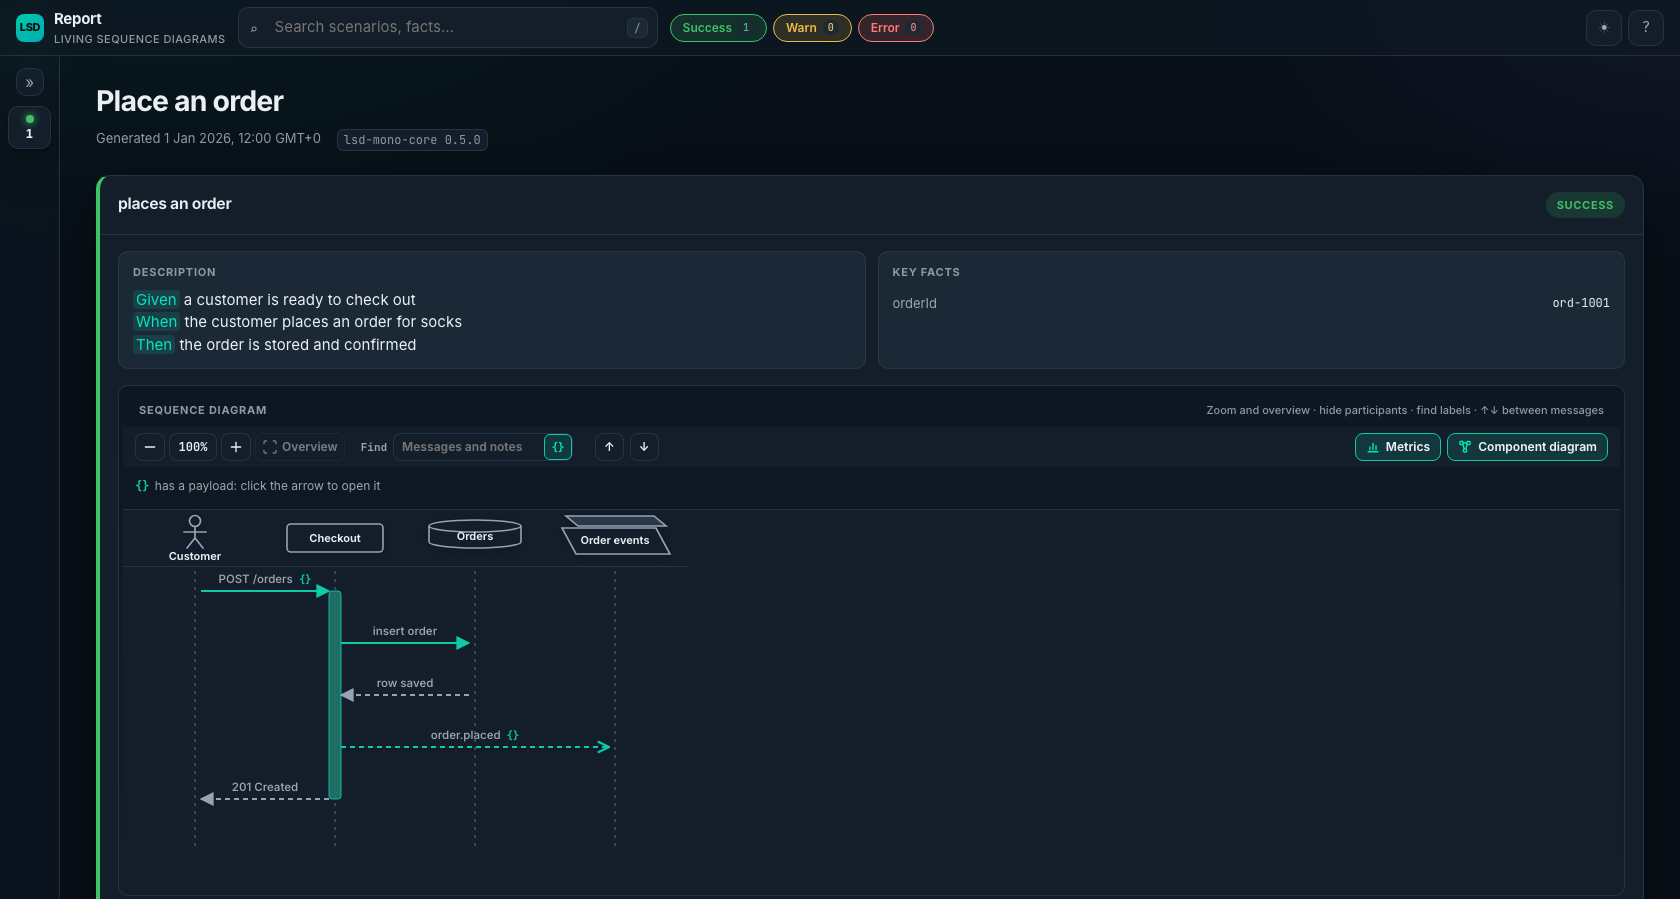
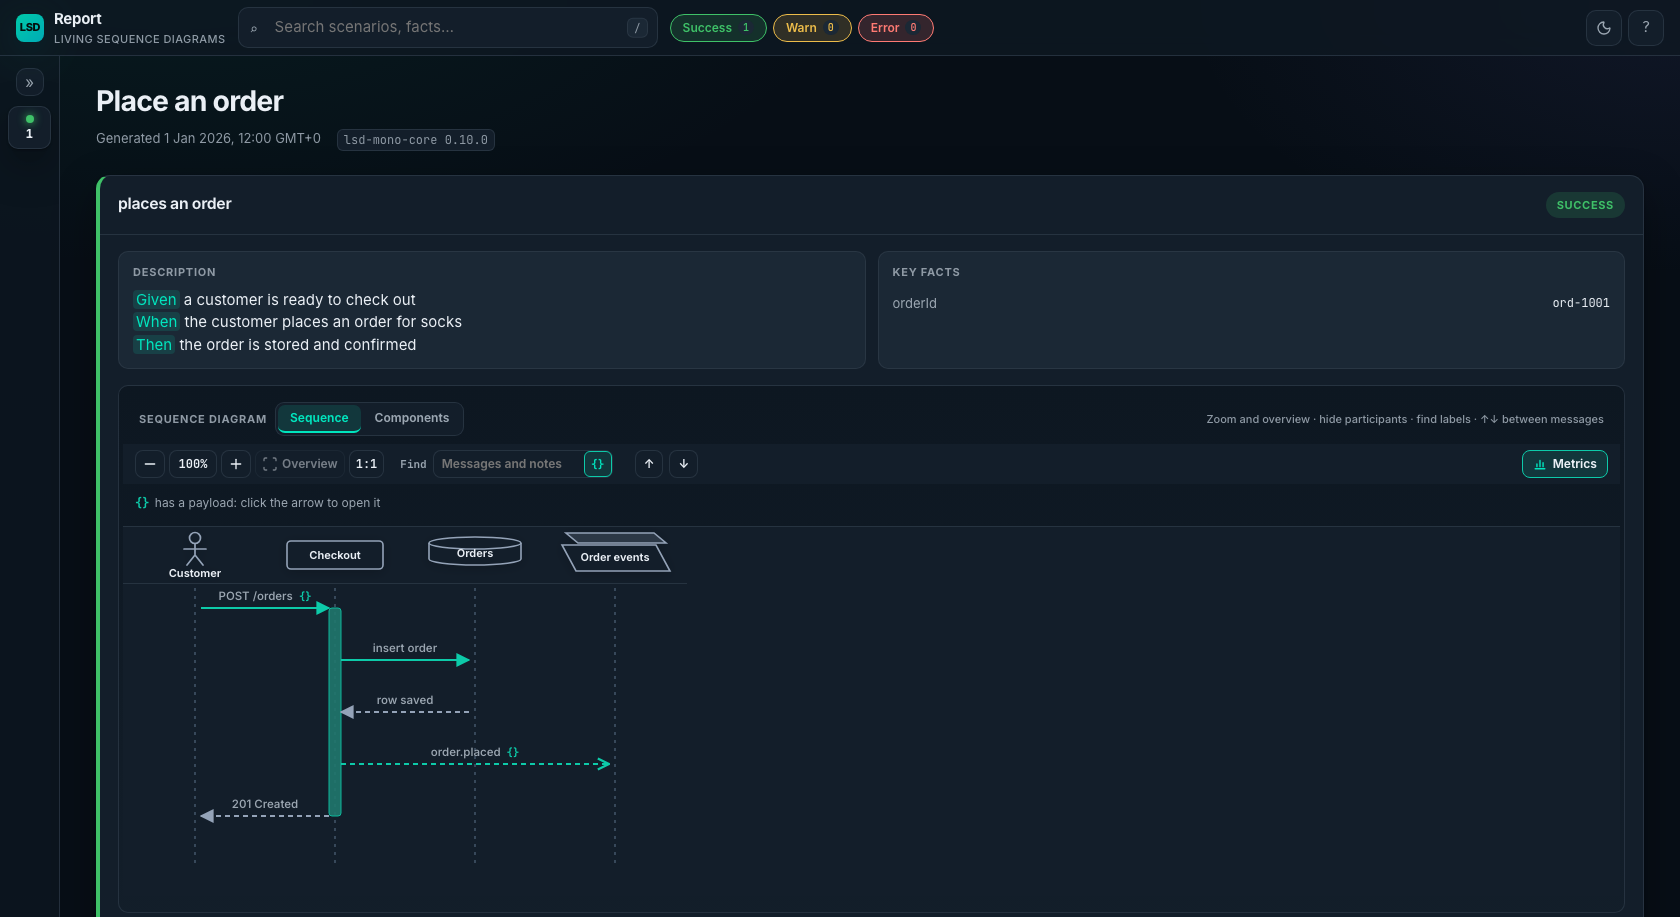
docs: refresh the readme feature tour with the dark theme

diff --git a/README.md b/README.md
@@ -6,7 +6,7 @@
 
 LSD Mono records a scenario as a sequence of messages and writes an interactive HTML report. [`lsd-mono-core`](modules/lsd-mono-core) is the capture API and the report UI.
 
-![A tour of the report: choosing a scenario from the list, zooming in and out and back to the default, find, an arrow's JSON in a panel dragged wider, the component diagram, metrics, hiding a participant, themes, and the collapsed scenario list](docs/readme/feature-tour.gif)
+![A tour of the report: choosing a scenario from the list, zooming in and out and back to the default, find, an arrow's JSON in a panel dragged wider, the component diagram, metrics, hiding a participant, the light, dark and high-contrast themes, and the collapsed scenario list](docs/readme/feature-tour.gif)
 
 **[Live example report →](https://lsd-consulting.github.io/lsd-mono/example-report.html)** An online shop checkout across 14 services and five scenarios, built from the latest release. Click an arrow to see its request, reply or event payload.
 
